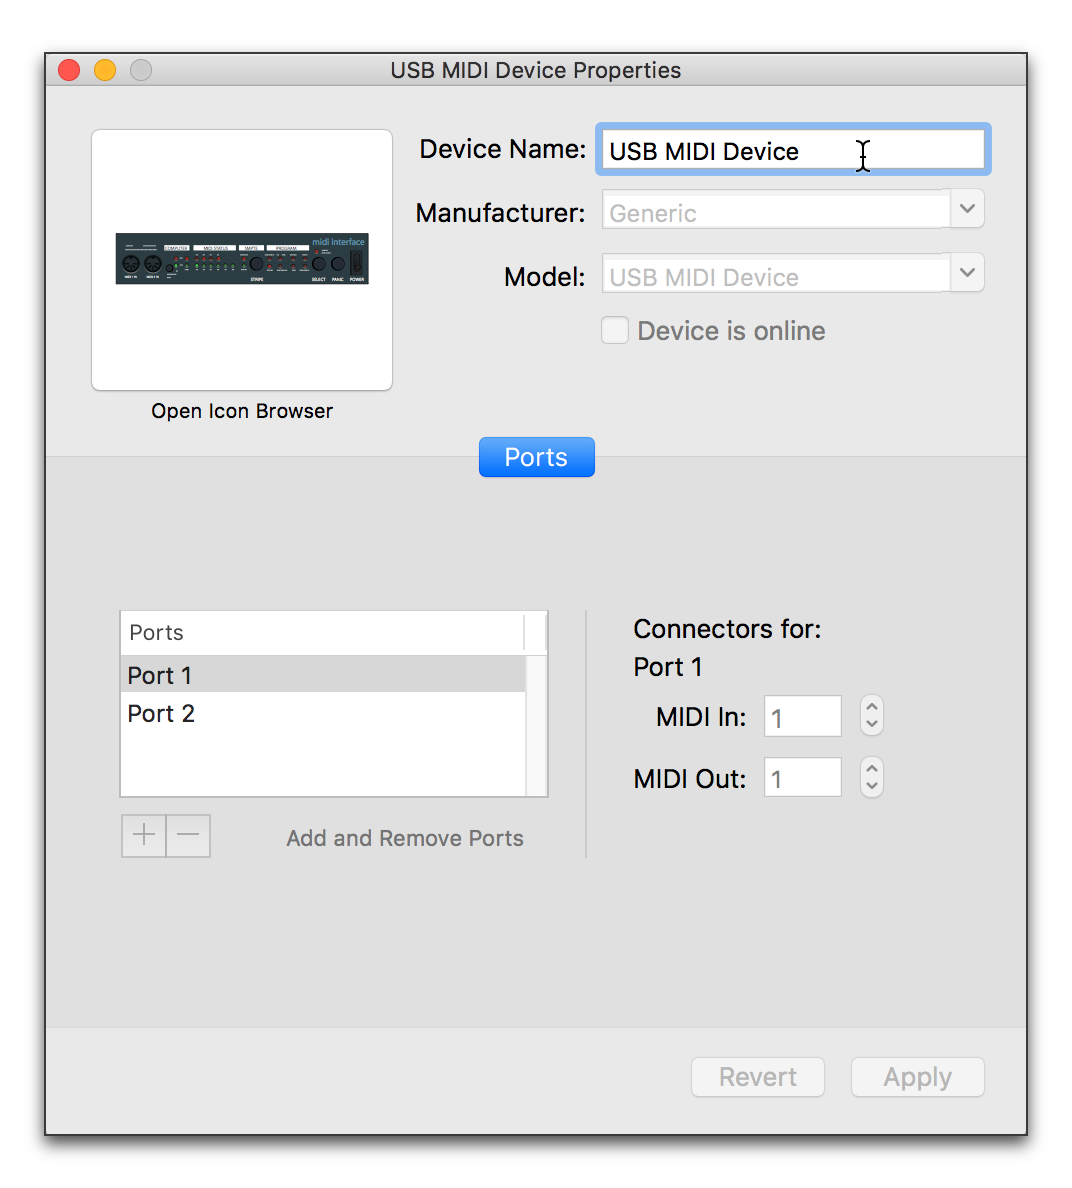
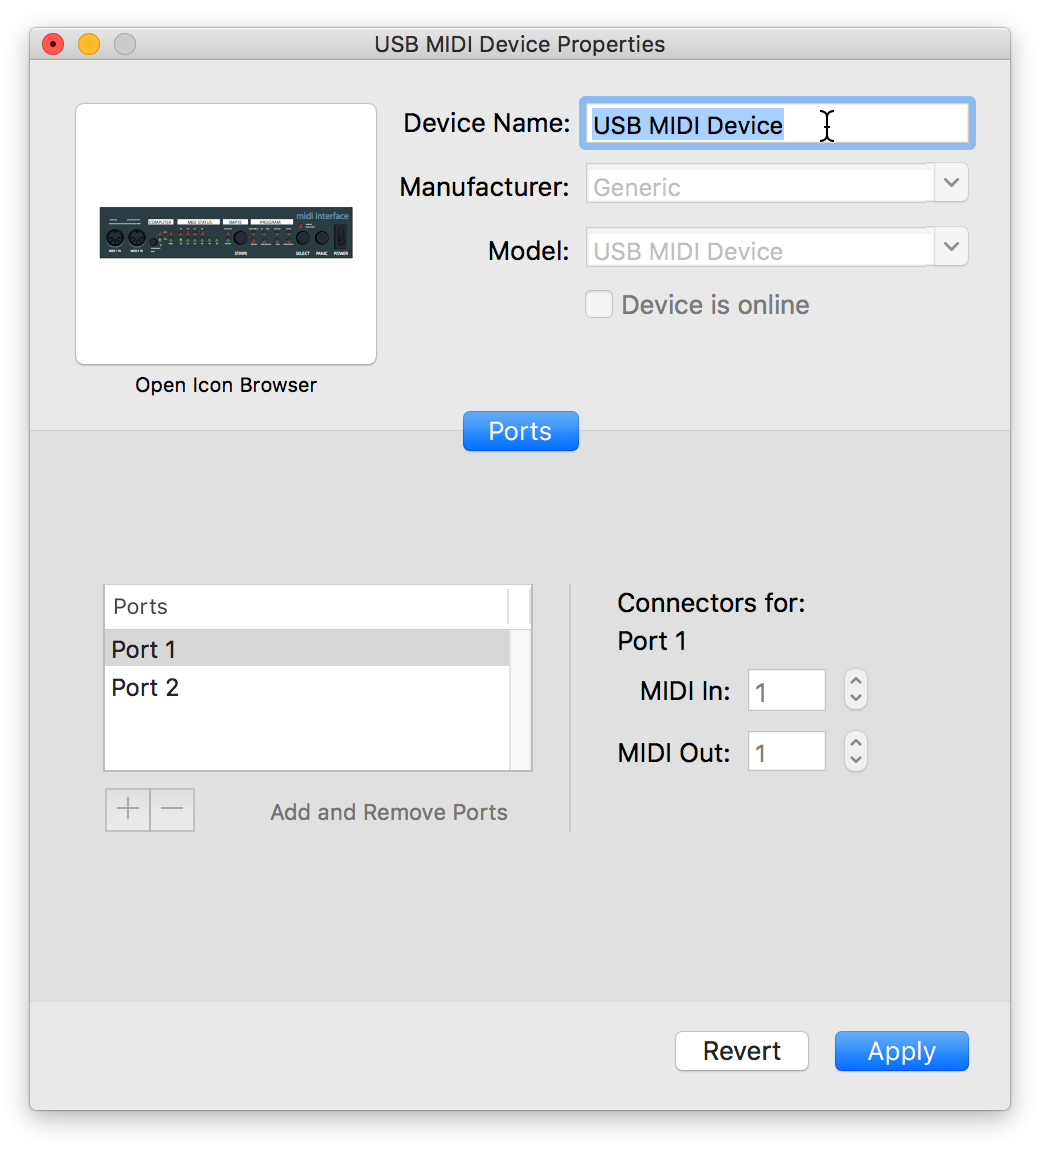
Fix borders of properties popup window.
Also selects the device name text for added clarity.

diff --git a/README.md b/README.md
@@ -325,7 +325,7 @@ double-click on it, or click once to select it and then click the
 Information button in the toolbar. That opens a Properties window
 where the device name can be edited:
 
-<image src="doc/assets/EditDeviceName.png" alt="Editing Device Name" width="536">
+<image src="doc/assets/EditDeviceName.png" alt="Editing Device Name" width="520">
 
 When editing a device name like this, as soon as you click the
 **Apply** button in the Properties window, CoreMIDI4J will report a
